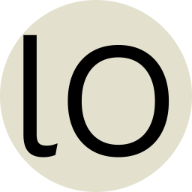
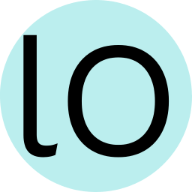
Fixes

diff --git a/edtech_platform_frontend/src/components/Content/Content.css b/edtech_platform_frontend/src/components/Content/Content.css
@@ -9,8 +9,8 @@
     border-style: solid;
     border-width: 1px 0px 1px;
     border-color:silver;
-    padding: 0px 30px 0px;
-    overflow-x: auto;  
+    /* padding: 0px 30px 0px; */
+    /* overflow-x: auto;   */
 }
 
 
@@ -18,10 +18,14 @@
     display: flex;
     overflow-x: auto;   
     min-height: 400px;
-    scrollbar-width: none;
+    /* scrollbar-width: none; */
 }
 
+.cards-field-title {
+    margin-left: 20px;
 
-.cards-field::-webkit-scrollbar {
+}
+
+/* .cards-field::-webkit-scrollbar {
     display: none;
-  }
+  } */

diff --git a/edtech_platform_frontend/src/components/Content/TeachersField/TeachersField.js b/edtech_platform_frontend/src/components/Content/TeachersField/TeachersField.js
@@ -39,7 +39,10 @@ class TeachersField extends Component {
       else {
         return (
           <div className='cards-field'>
-            <h1>Teachers</h1>
+            <div className='cards-field-title'>
+              <h1>Teachers</h1>
+            </div>
+            
             <div className='cards-field-scroll'>
               {teachers.map
               (teacher => <TeacherCard name={teacher.id} bio={teacher.bio} img_url={teacher.img_url}/>)}

diff --git a/edtech_platform_frontend/src/components/Header/Menu/Menu.css b/edtech_platform_frontend/src/components/Header/Menu/Menu.css
@@ -1,12 +1,11 @@
 .menu {
     padding: 0;
-    font-size: 24px;
+    font-size: 20px;
     line-height: 28px;
 }
 
 .menu-point {
     display: inline-block;
-    background-color: #e3e0cd;
     margin: 0 10px;
     padding: 0 5px;     
 }
@@ -14,4 +13,8 @@
 .menu-link {
     text-decoration: none;
     color: black;
+    padding: 0 3px;
+    border-style: solid;
+    border-width: 1px;
+    border-color:black;
 }

diff --git a/edtech_platform_frontend/src/components/Content/CoursesField/CoursesField.js b/edtech_platform_frontend/src/components/Content/CoursesField/CoursesField.js
@@ -38,7 +38,10 @@ class CoursesField extends Component {
       else {
         return (
           <div className='cards-field'>
-            <h1>Courses</h1>
+            <div className='cards-field-title'>
+              <h1>Courses</h1>
+            </div>
+            
             <div className='cards-field-scroll'>
               { courses.map
               (course => <CourseCard 

diff --git a/edtech_platform_frontend/src/components/Header/Header.css b/edtech_platform_frontend/src/components/Header/Header.css
@@ -1,7 +1,15 @@
+
+@import url('https://fonts.googleapis.com/css2?family=Work+Sans:wght@300&display=swap');
+
 .header {
     min-height: 50px;
     /* background-color: royalblue; */
     display: flex;
     justify-content: space-between;
     align-items: center;
+}
+
+.base-style {
+    background-color: #bee;
+    font-family: 'Work Sans';
 }

diff --git a/edtech_platform_frontend/src/components/Header/Logo/Logo.js b/edtech_platform_frontend/src/components/Header/Logo/Logo.js
@@ -1,12 +1,13 @@
 import React, { Component } from "react"
 import "./Logo.css"
+import "../Header.css"
 
 const NAME = 'learnO'
 
 const Logo = () => {
   return (
       <div className="logo-container">
-        <a className="logo" href='#'>
+        <a className="logo base-style" href='#'>
                 { NAME }
         </a>
       </div>

diff --git a/edtech_platform_frontend/src/components/Header/Logo/Logo.css b/edtech_platform_frontend/src/components/Header/Logo/Logo.css
@@ -1,12 +1,11 @@
 
 
-@import url('https://fonts.googleapis.com/css2?family=Work+Sans:wght@300&display=swap');
+
 
 
 .logo {
-    font-family: 'Work Sans';
-    font-size: 40px;
-    background-color: #e3e0cd;
+    
+    font-size: 30px;
     text-decoration: none;
     color: black;
     padding: 0 5px;

diff --git a/edtech_platform_frontend/src/components/Header/Menu/Menu.js b/edtech_platform_frontend/src/components/Header/Menu/Menu.js
@@ -6,7 +6,7 @@ const Menu = () => {
   return (
       <div className="menu">
         <div className="menu-point">
-            <a className="menu-link" href="#">log In</a>
+            <a className="menu-link base-style" href="#">log In</a>
         </div>
       </div>
 

diff --git a/edtech_platform_frontend/src/components/Content/TeacherCard/TeacherCard.css b/edtech_platform_frontend/src/components/Content/TeacherCard/TeacherCard.css
@@ -25,5 +25,5 @@
 .teacher-card-title {
     /* display: flex; */
     /* height: 100%; */
-    background-color:gold;
+    background-color:rgb(238, 235, 235);
 }

diff --git a/edtech_platform_frontend/src/components/Content/CourseCard/CourseCard.css b/edtech_platform_frontend/src/components/Content/CourseCard/CourseCard.css
@@ -25,5 +25,5 @@
 .course-card-title {
     /* display: flex; */
     /* height: 100%; */
-    background-color:gold;
+    background-color:rgb(238, 235, 235);
 }

diff --git a/README.md b/README.md
@@ -3,10 +3,11 @@
 
 `docker-compose up`
 
-###### Делаем миграции и добавляем данные в docker:
+###### Делаем миграции и добавляем данные в docker-контейнере:
 `python manage.py migrate`
 
 `python manage.py loaddata dump.json`
+
 
 ###### Установка redis:
 `apt install redis`
